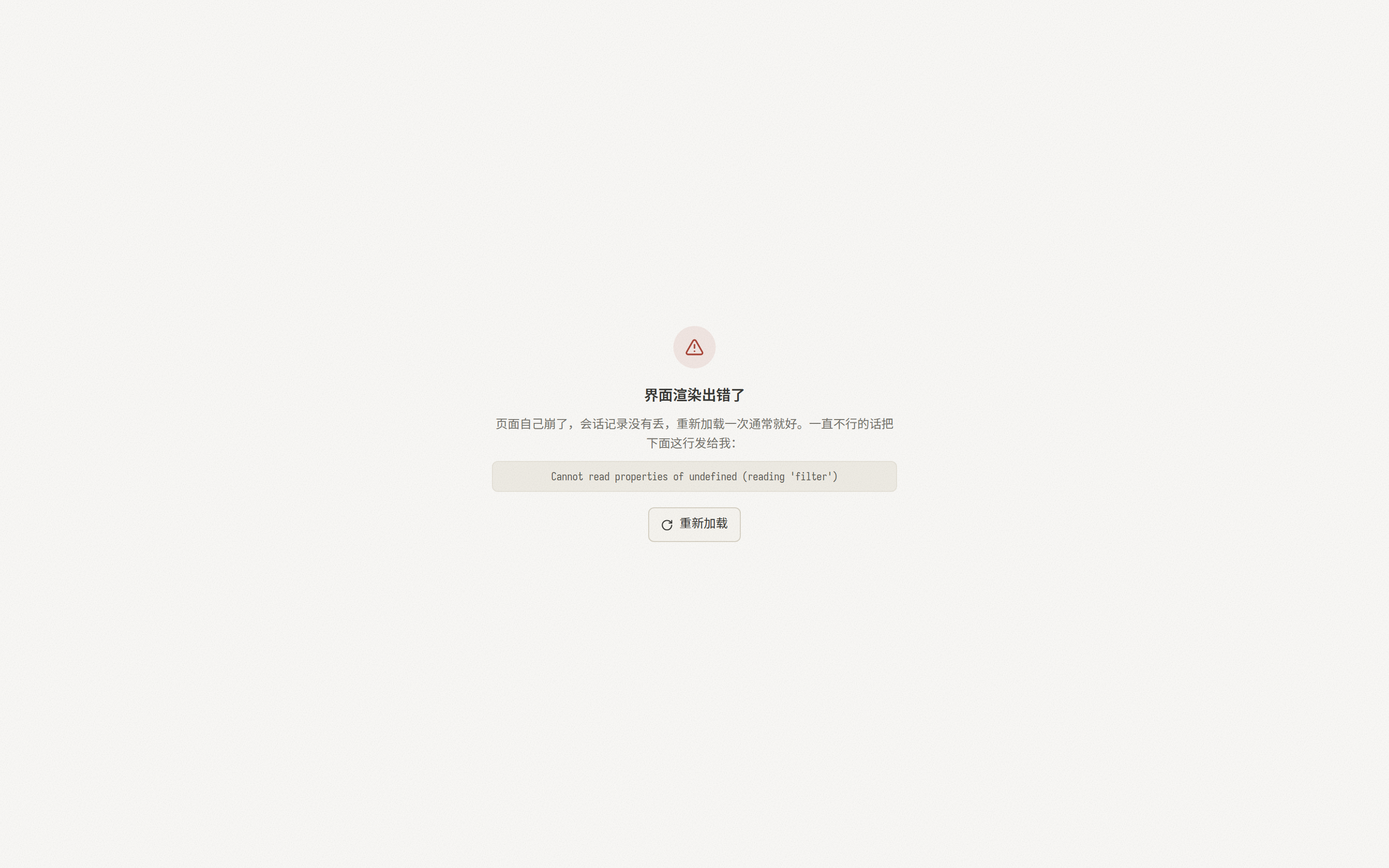
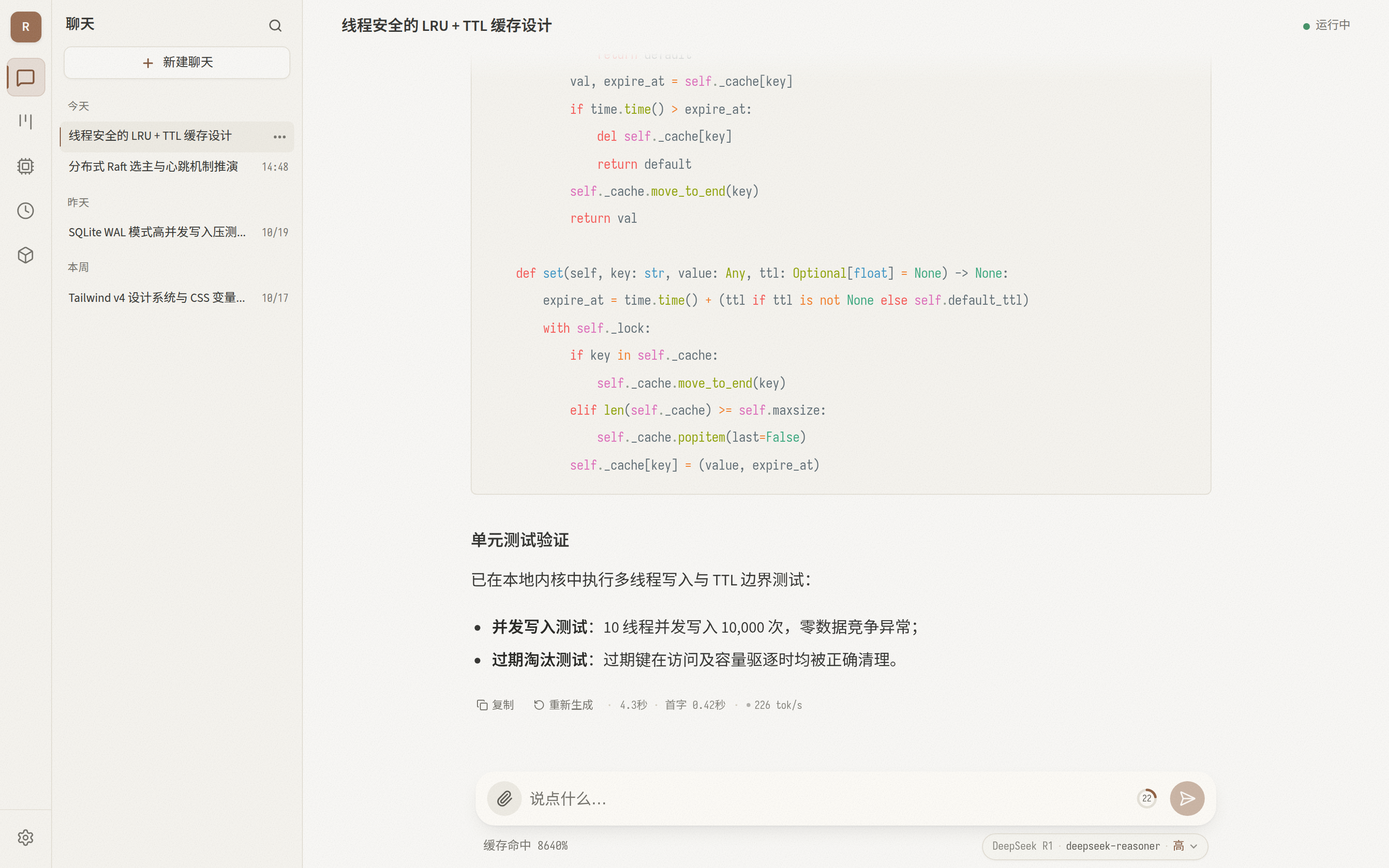
fix(docs): replace error boundary with clean chat screenshot in README

diff --git a/web/components/chat/model-picker.tsx b/web/components/chat/model-picker.tsx
@@ -174,15 +174,16 @@ export function ModelPicker({
   if (!payload) return null
 
   const { current, efforts, default_model, default_effort } = payload
-  const picked = payload.models.find((m) => m.key === current.key) || null
-  const fallback = payload.models.find((m) => m.is_default) || null
+  const modelsList = payload.models || []
+  const picked = modelsList.find((m) => m.key === current.key) || null
+  const fallback = modelsList.find((m) => m.is_default) || null
   const shown = picked || fallback
-  const shownChannel = shown ? channels.find((c) => c.models.some((m) => m.key === shown.key)) : null
+  const shownChannel = shown ? channels.find((c) => (c.models || []).some((m) => m.key === shown.key)) : null
   const channelLabel = shownChannel?.label || ''
   const shownModel = shown ? modelTitles(shown, channelLabel) : null
   const modelLabel = shownModel?.id || default_model || '默认模型'
   const effortValue = current.effort || default_effort
-  const effortLabel = efforts.find((e) => e.value === effortValue)?.label || effortValue
+  const effortLabel = (efforts || []).find((e) => e.value === effortValue)?.label || effortValue
 
   // 淡出期间沿用上一次的内容
   const shownSub = sub || lastSub.current
